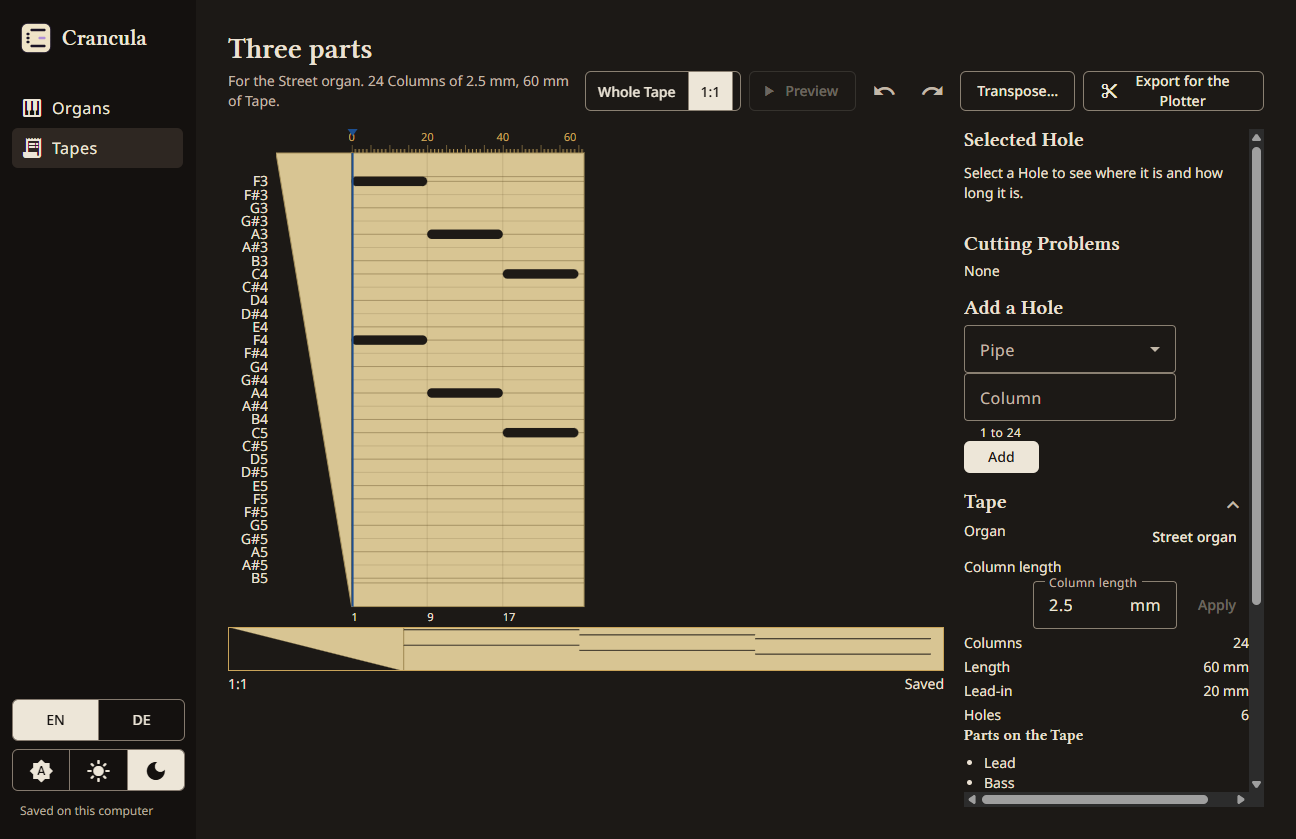
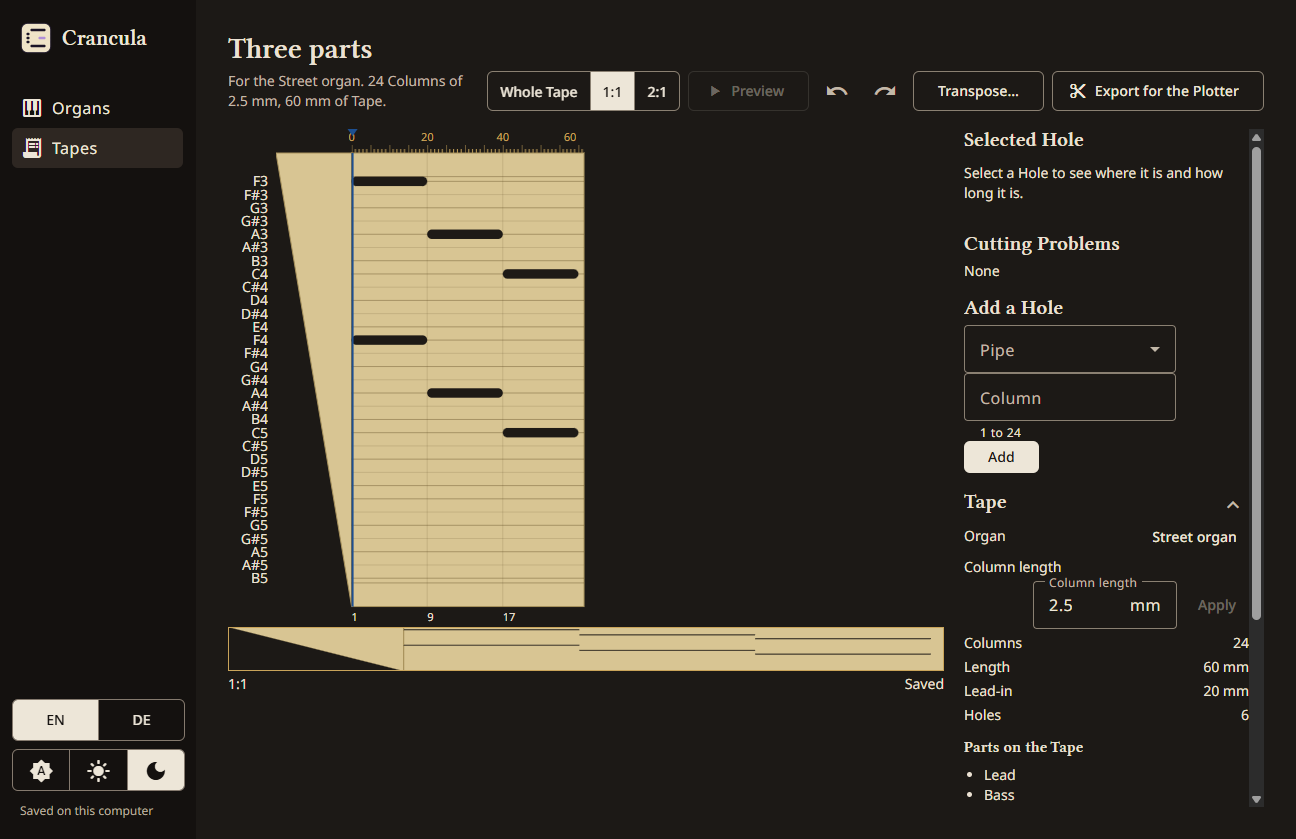
fix: Preview UX findings (#151) (#158)
* fix(tape-view): keep the zoom toggles and Export on one line in the page head

* fix(tape-section): align the Organ row on one baseline, space Parts on the Tape

* test(e2e): page head and Tape section layout at 1440 x 900

* test(e2e): Tape Bed fields keep their label and height when empty

* docs(readme): retake the screenshots with a Tape per Crank turn

* docs(ux): retake the current screens after the layout fixes

* docs(status): Preview UX findings fixed (#151)

---------

diff --git a/e2e/tape-layout.spec.ts b/e2e/tape-layout.spec.ts
@@ -267,3 +267,103 @@ test.describe('The Tape view in true millimetres on one screen', () => {
     await expect(window.getByTestId('side-panel')).toBeVisible();
   });
 });
+
+/** The value shown next to a label of the Tape section (`dt` followed by its `dd`). */
+function sectionValue(window: Page, label: string): Locator {
+  return window.getByTestId('tape-section').getByText(label, {exact: true}).locator('xpath=following-sibling::dd[1]');
+}
+
+/** The vertical position of the text baseline of an element, found with a zero-height marker placed on the baseline. */
+const baselineOf = (locator: Locator): Promise<number> =>
+  locator.evaluate((element) => {
+    const marker = document.createElement('span');
+    marker.style.cssText = 'display: inline-block; width: 0; height: 0; vertical-align: baseline;';
+    element.appendChild(marker);
+    const {top} = marker.getBoundingClientRect();
+    marker.remove();
+    return top;
+  });
+
+test.describe('The Tape view with the Preview toggles and the Tape section at 1440 x 900 (#151)', () => {
+  test('German: the 2:1 zoom toggle is fully visible inside the page head', async () => {
+    const launched = await launchApp();
+    const {app, window} = launched;
+    await resizeWindowOrSkip(launched, 1440, 900, true);
+    await defineOrganWithLeadIn(window);
+    await createTapeFromSong(window, 'Scale', melodyC3ToC5(), {columnLength: '5'});
+    await window.getByTestId('language-switch').locator('[data-language="de"]').click();
+
+    const toggle = await boxOf(window.getByTestId('zoom').getByRole('radio', {name: '2:1'}));
+    const group = window.getByTestId('zoom');
+    const groupBox = await boxOf(group);
+    const head = window.getByTestId('page-head-actions');
+    const headBox = await boxOf(head);
+    const viewport = await window.evaluate(() => ({width: globalThis.innerWidth, height: globalThis.innerHeight}));
+    expect(toggle.right, `2:1 right edge ${toggle.right} vs zoom group right edge ${groupBox.right}`).toBeLessThanOrEqual(groupBox.right + 0.5);
+    expect(toggle.right, `2:1 right edge ${toggle.right} vs page head right edge ${headBox.right}`).toBeLessThanOrEqual(headBox.right + 0.5);
+    expect(toggle.right, `2:1 right edge ${toggle.right} vs viewport width ${viewport.width}`).toBeLessThanOrEqual(viewport.width);
+    expect(await group.evaluate((element) => element.scrollWidth - element.clientWidth), 'zoom group overflow').toBeLessThanOrEqual(1);
+    expect(await head.evaluate((element) => element.scrollWidth - element.clientWidth), 'page head overflow').toBeLessThanOrEqual(1);
+    await app.close();
+  });
+
+  test('the Organ row label and value share a baseline', async () => {
+    const launched = await launchApp();
+    const {app, window} = launched;
+    await resizeWindowOrSkip(launched, 1440, 900, true);
+    await defineOrganWithLeadIn(window);
+    await createTapeFromSong(window, 'Scale', melodyC3ToC5(), {columnLength: '5'});
+
+    const label = await baselineOf(window.getByTestId('tape-section').getByText('Organ', {exact: true}));
+    const value = await baselineOf(sectionValue(window, 'Organ'));
+    expect(Math.abs(label - value), `label baseline ${label} vs value baseline ${value}`).toBeLessThanOrEqual(1);
+    await app.close();
+  });
+
+  test('at least 8 px between the Holes row and the Parts on the Tape heading', async () => {
+    const launched = await launchApp();
+    const {app, window} = launched;
+    await resizeWindowOrSkip(launched, 1440, 900, true);
+    await defineOrganWithLeadIn(window);
+    await createTapeFromSong(window, 'Scale', melodyC3ToC5(), {columnLength: '5'});
+
+    const holes = await boxOf(sectionValue(window, 'Holes'));
+    const parts = await boxOf(window.getByTestId('tape-section').getByRole('heading', {level: 3, name: 'Parts on the Tape'}));
+    expect(parts.top - holes.bottom, `gap between Holes (${holes.bottom}) and Parts heading (${parts.top})`).toBeGreaterThanOrEqual(8);
+    await app.close();
+  });
+
+  for (const language of ['en', 'de'] as const) {
+    test(`${language === 'en' ? 'English' : 'German'}: every page head action renders on one line`, async () => {
+      const launched = await launchApp();
+      const {app, window} = launched;
+      await resizeWindowOrSkip(launched, 1440, 900, true);
+      await defineOrganWithLeadIn(window);
+      await createTapeFromSong(window, 'Scale', melodyC3ToC5(), {columnLength: '5'});
+      await window.getByTestId('language-switch').locator(`[data-language="${language}"]`).click();
+
+      const buttons = await window.getByTestId('page-head-actions').locator('button').evaluateAll((elements) =>
+        elements.map((button) => {
+          const {height} = button.getBoundingClientRect();
+          const rows: number[] = [];
+          const walker = document.createTreeWalker(button, NodeFilter.SHOW_TEXT);
+          for (let node = walker.nextNode(); node !== null; node = walker.nextNode()) {
+            if (!node.textContent?.trim() || node.parentElement?.closest('mat-icon')) continue;
+            const range = document.createRange();
+            range.selectNodeContents(node);
+            for (const rect of range.getClientRects()) rows.push(rect.top);
+          }
+          rows.sort((a, b) => a - b);
+          const lines = rows.filter((top, index) => index === 0 || top - (rows[index - 1] ?? top) > 4).length;
+          return {text: button.textContent?.trim(), height, lines};
+        }),
+      );
+      expect(buttons.length).toBeGreaterThan(1);
+      for (const {text, height, lines} of buttons) {
+        expect(height, `${text} height`).toBeLessThanOrEqual(40.5);
+        expect(lines, `${text} lines`).toBeLessThanOrEqual(1);
+      }
+      await app.close();
+    });
+  }
+});

diff --git a/e2e/organ-layout.spec.ts b/e2e/organ-layout.spec.ts
@@ -175,3 +175,40 @@ test.describe('The Pipe rack header cells do not run together', () => {
     });
   }
 });
+
+test.describe('The Tape Bed fields at 1440 x 900 (#151)', () => {
+  const fieldOf = (window: Page, testId: string) => window.locator('mat-form-field').filter({has: window.getByTestId(testId)});
+
+  test('an empty Tape per Crank turn: its label does not overlap the mm suffix', async () => {
+    const launched = await launchApp();
+    const {app, window} = launched;
+    await resizeWindowOrSkip(launched, 1440, 900, true);
+    await window.getByTestId('new-organ').click();
+
+    const field = fieldOf(window, 'tape-per-crank-turn');
+    const label = await field.locator('.mdc-floating-label').evaluate((element) => {
+      const {left, top, right, bottom} = element.getBoundingClientRect();
+      return {left, top, right, bottom};
+    });
+    const suffix = await field.locator('.mat-mdc-form-field-text-suffix').evaluate((element) => {
+      const {left, top, right, bottom} = element.getBoundingClientRect();
+      return {left, top, right, bottom};
+    });
+    const overlaps = label.left < suffix.right - 0.5 && suffix.left < label.right - 0.5 && label.top < suffix.bottom - 0.5 && suffix.top < label.bottom - 0.5;
+    expect(overlaps, `label ${JSON.stringify(label)} overlaps suffix ${JSON.stringify(suffix)}`).toBe(false);
+    await app.close();
+  });
+
+  test('an empty Lead-in is no taller than the Minimum gap field beside it', async () => {
+    const launched = await launchApp();
+    const {app, window} = launched;
+    await resizeWindowOrSkip(launched, 1440, 900, true);
+    await window.getByTestId('new-organ').click();
+
+    const height = (testId: string) =>
+      fieldOf(window, testId).evaluate((element) => element.getBoundingClientRect().height);
+    const [leadIn, minimumGap] = await Promise.all([height('lead-in'), height('minimum-gap')]);
+    expect(leadIn, `Lead-in ${leadIn}px vs Minimum gap ${minimumGap}px`).toBeLessThanOrEqual(minimumGap + 0.5);
+    await app.close();
+  });
+});

diff --git a/e2e/ux/readme.capture.ts b/e2e/ux/readme.capture.ts
@@ -2,7 +2,7 @@ import {expect, test, type Page} from '@playwright/test';
 import {join} from 'node:path';
 import {encodeSmf, type SmfTimedEvent} from '../../api/song/midi/smf-test-helper';
 import {launchApp, type LaunchedApp} from '../support/launch-app';
-import {defineStreetOrgan} from '../support/organ-editor';
+import {defineStreetOrgan, saveOrgan} from '../support/organ-editor';
 
 // Screenshots for the README; run with `$env:README_SHOTS='1'; npm run ux:screens`.
 const SHOTS = join(__dirname, '../../documentation/images/screenshots');
@@ -56,6 +56,8 @@ test.describe('README screenshots', () => {
   test('captures the README screens', async () => {
     const {window} = launched;
     await defineStreetOrgan(window);
+    await window.getByTestId('tape-per-crank-turn').fill('50');
+    await saveOrgan(window);
     await window.getByRole('link', {name: 'Organs'}).click();
     await window.getByTestId('organ').first().click();
     await expect(window.getByTestId('save-organ')).toBeVisible();

diff --git a/src/app/features/tape/tape-view/tape-section/tape-section.component.ts b/src/app/features/tape/tape-view/tape-section/tape-section.component.ts
@@ -102,9 +102,13 @@ class ColumnLengthErrorMatcher extends ErrorStateMatcher {
     h3 {
       margin: 0 0 0.5rem;
     }
+    h3 {
+      margin-top: 0.75rem;
+    }
     dl {
       display: grid;
       grid-template-columns: auto 1fr;
+      align-items: baseline;
       gap: 4px 12px;
       margin: 0;
     }

diff --git a/src/app/features/tape/tape-view/tape-view.component.scss b/src/app/features/tape/tape-view/tape-view.component.scss
@@ -69,6 +69,12 @@ cranc-page-head button[mat-icon-button] {
 .overview {
   display: block;
 }
+.zoom {
+  flex: none;
+}
+[data-testid='export'] {
+  white-space: nowrap;
+}
 .zoom,
 [data-testid='preview-toggle'],
 [data-testid='export'],

diff --git a/documentation/STATUS.md b/documentation/STATUS.md
@@ -8,8 +8,15 @@ Issues: [GitHub](https://github.com/LilSticky/crancula/issues)
 
 No slice in progress.
 
-**Next step:** the UX findings in [#151](https://github.com/LilSticky/crancula/issues/151) (then retake the README
-screenshots), or Record a tape ([discovery/later.md](discovery/later.md), section 1, slice 2).
+**Next step:** the review follow-ups in [#156](https://github.com/LilSticky/crancula/issues/156) (incl. the clipped
+Crank speed label noted there), or Record a tape ([discovery/later.md](discovery/later.md), section 1, slice 2).
+
+**Done:** [UX findings in #151](https://github.com/LilSticky/crancula/issues/151) (2026-10-24, branch
+`151-preview-ux-findings`): the German page head no longer clips the 2:1 zoom toggle; the Export button stays on one
+line; the Tape section's Organ row sits on one baseline with a gap before Parts on the Tape; the Tape per Crank turn
+label and Lead-in height finding no longer reproduces at 1440×900 (regression e2e added). The README fixture now has a
+Tape per Crank turn and the README screenshots are retaken. New layout e2e: `e2e/tape-layout.spec.ts` and
+`e2e/organ-layout.spec.ts`.
 
 **Done:** [Edit a tape by touch](../specs/008-edit-a-tape-by-touch/spec.md)
 ([#152](https://github.com/LilSticky/crancula/issues/152), v0.2, merged 2026-10-24, branch `008-edit-a-tape-by-touch`,
@@ -32,8 +39,8 @@ scheduler on the audio clock. Review findings fixed; accepted test gaps in
 and 1270 Angular unit tests, lint, i18n (309 keys); e2e in CI. Sound itself is not tested automatically; the user
 listened to a Preview by hand on Windows on 2026-10-24 and it works ([quickstart](../specs/007-crank-a-tape/quickstart.md)).
 
-Open after it: the UX findings in [#151](https://github.com/LilSticky/crancula/issues/151) (then retake the README
-screenshots), or Record a tape ([discovery/later.md](discovery/later.md), section 1, slice 2).
+Open after it: the review follow-ups in [#156](https://github.com/LilSticky/crancula/issues/156), or Record a tape
+([discovery/later.md](discovery/later.md), section 1, slice 2).
 
 **Done:** v0.2.0 released (2026-10-24, [CHANGELOG](../CHANGELOG.md#020---2026-10-24)): Crank a tape (Preview, Crank
 speed, Tape per Crank turn). README describes v0.2.0 but keeps the v0.1.1 screenshots: the retaken ones showed the
